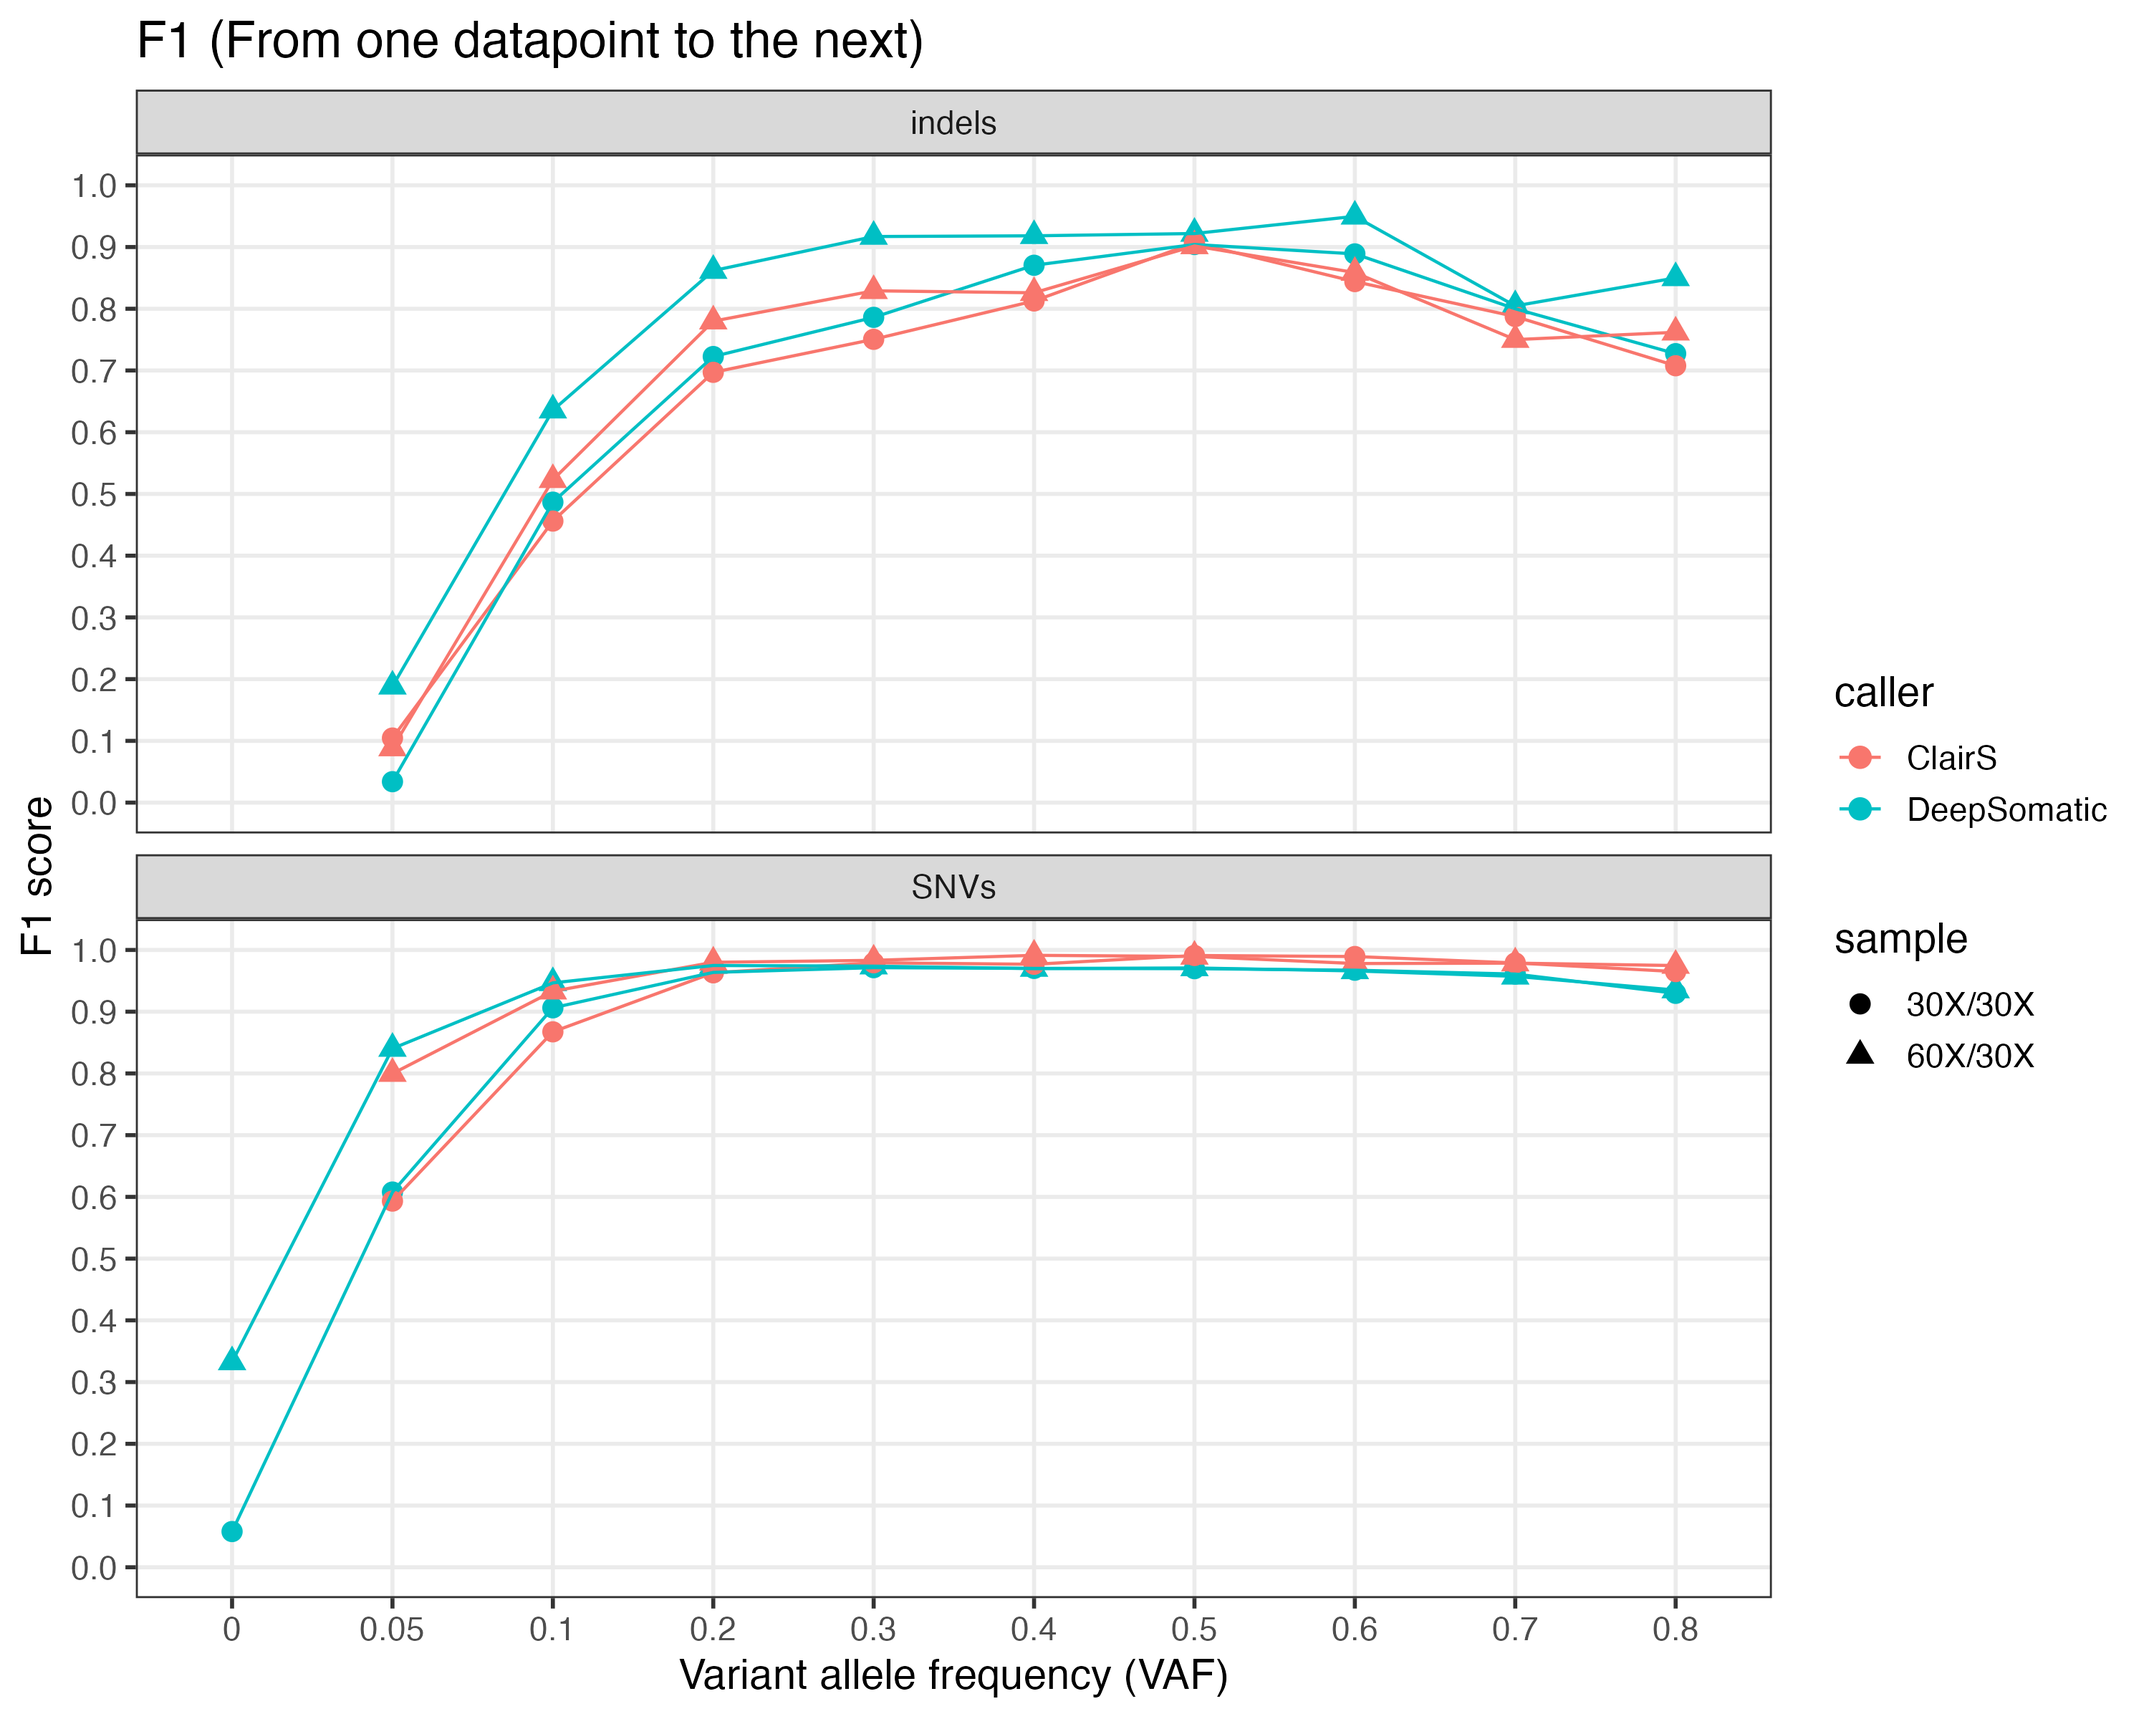
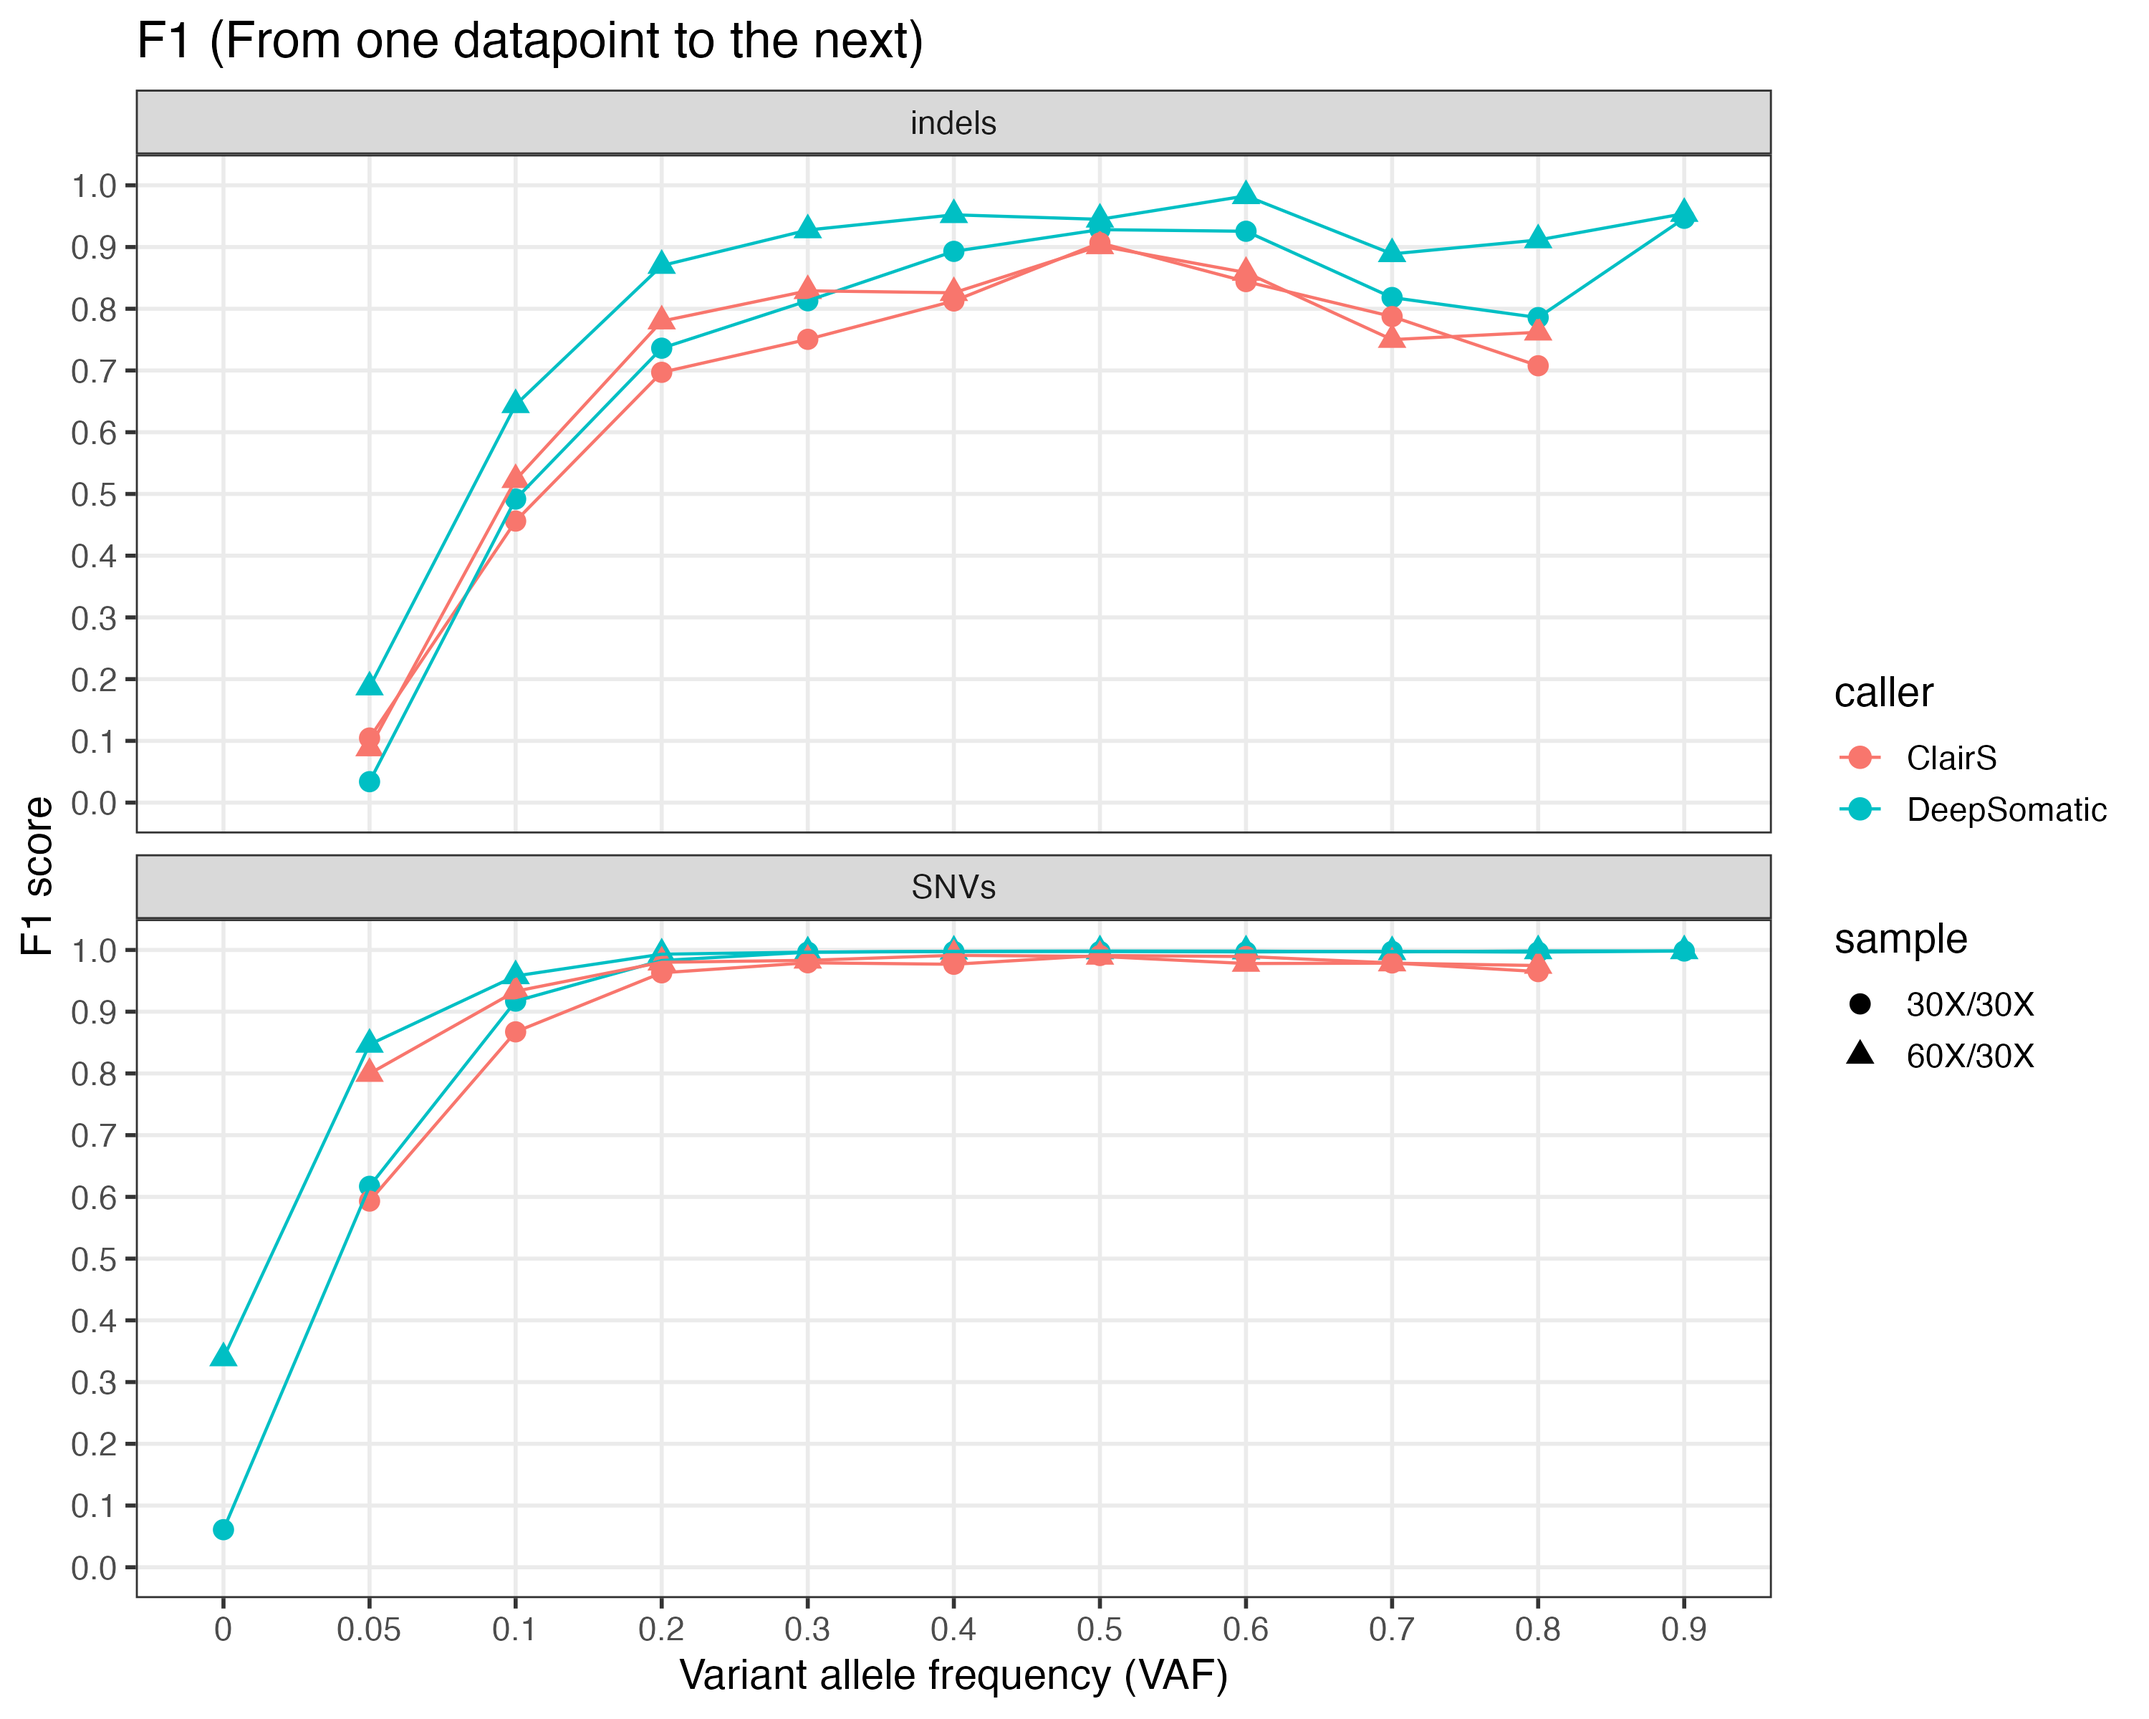
Corrected benchmark mistake for DeepSomatic

diff --git a/docs/benchmark.md b/docs/benchmark.md
@@ -64,6 +64,8 @@ of the truthset based on the pileup of the BAM files used to generate the call. 
 with at least 1 alt allele count are considered in the benchmarking. This also allows us to bin 
 the truth allele frequencies based on the input dataset. The alternative is to directly bin the 
 truth set using the TVAF tag, but this will not be able to capture the true allele frequencies
-as they were calculated based on the original short-reads dataset.
+as they were calculated based on the original short-reads dataset. Note that for DeepSomatic, we replaced
+the VAF of DeepSomatic using VAF calculated by `cal_af_distribution` script ran on the DeepSomatic's
+VCF, as DeepSomatic calculates VAF differently from `cal_af_distribution`.
 
 ![Alt text](../figures/SNV_INDEL_VAF.png)
